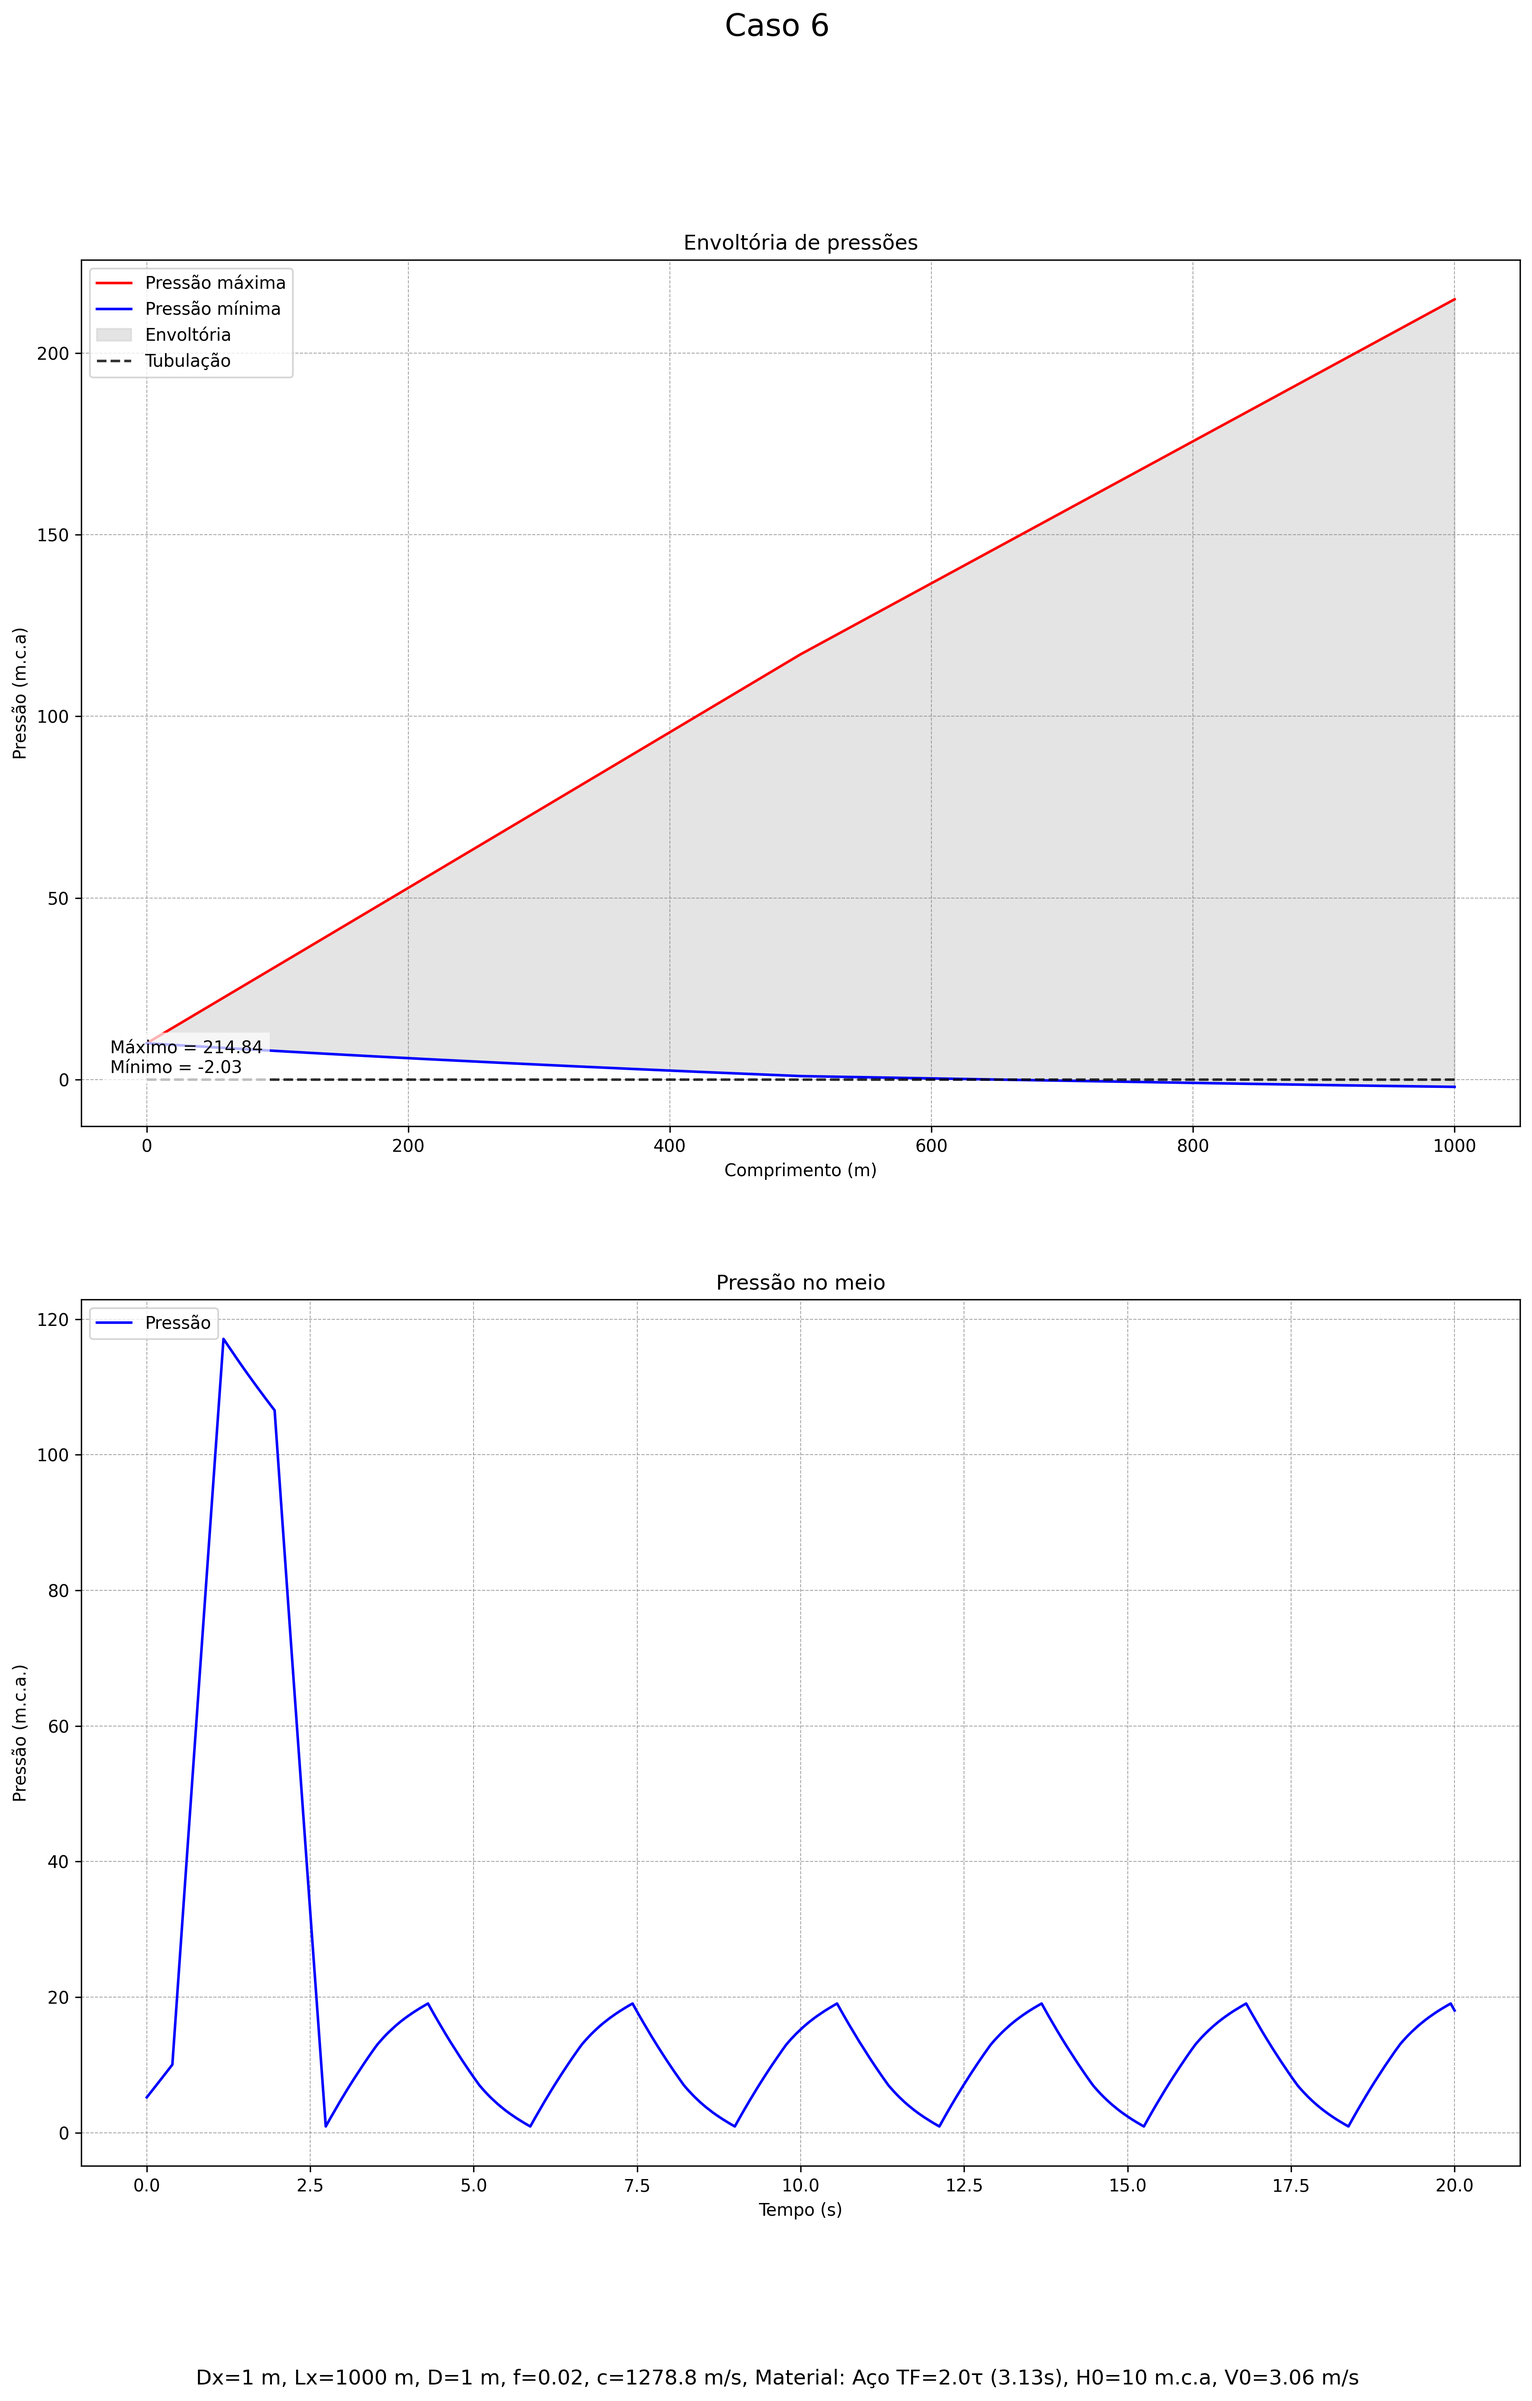
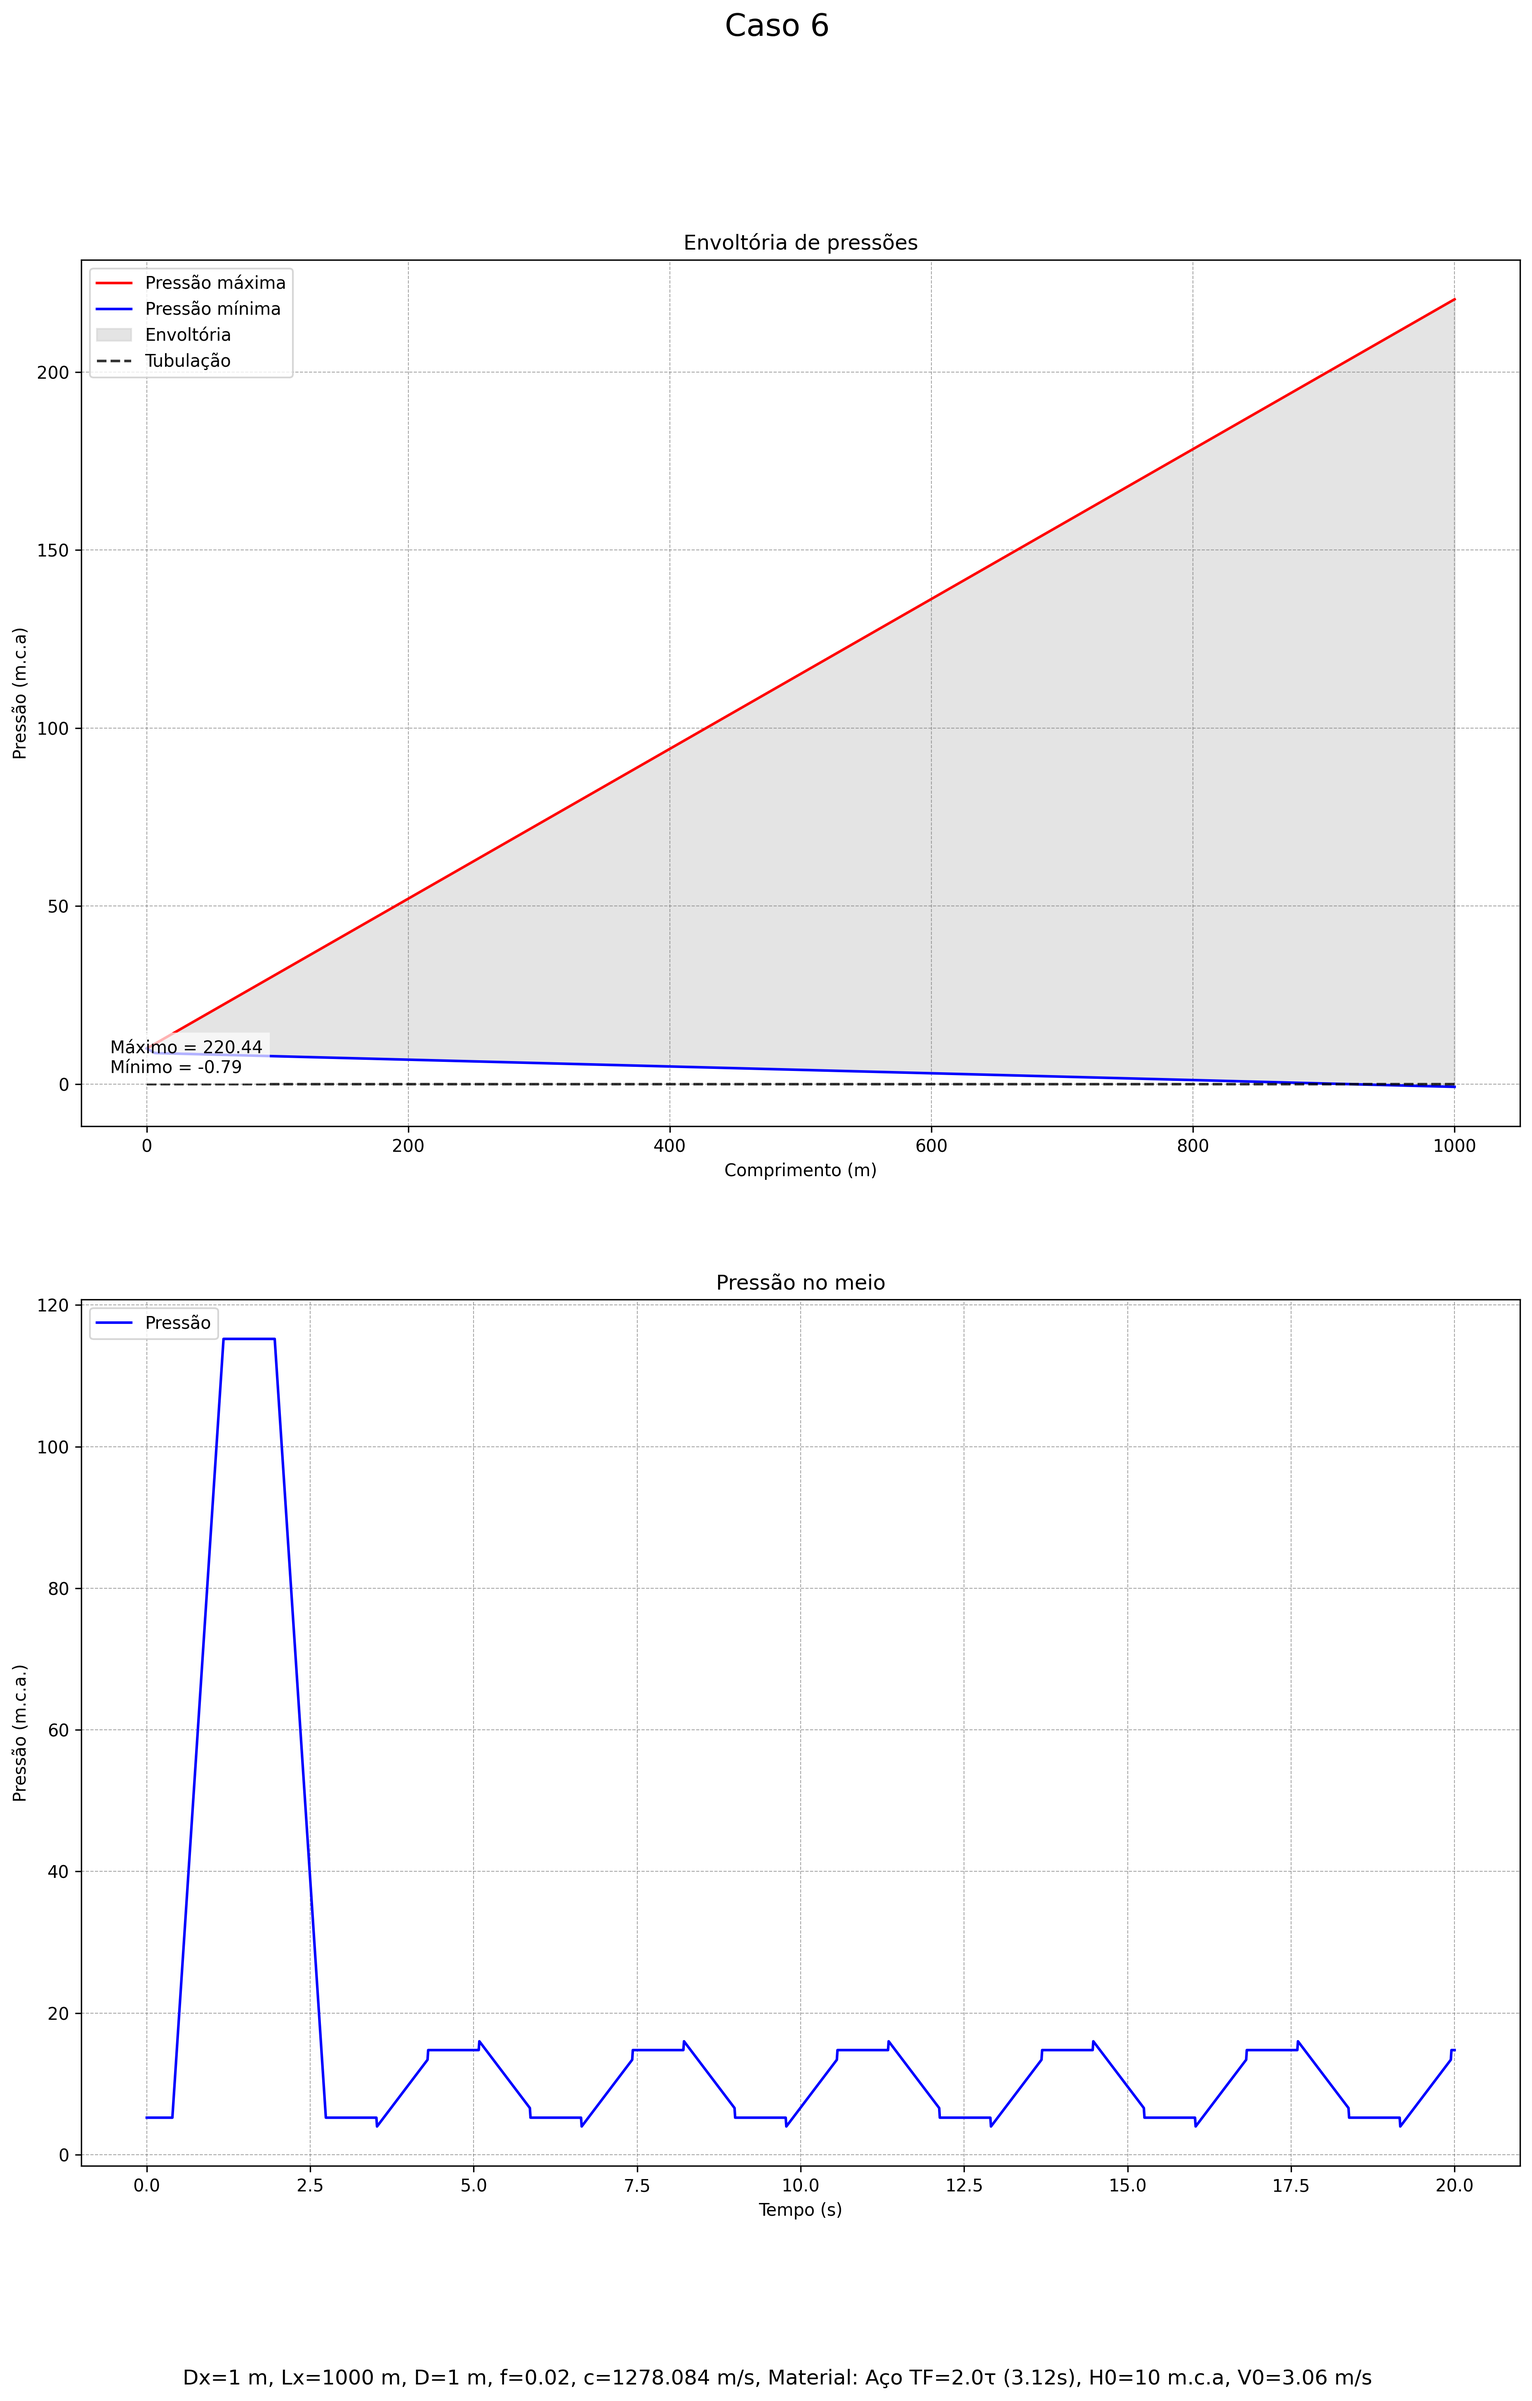
S_04

diff --git a/transiente-hidraulico-moc.py b/transiente-hidraulico-moc.py
@@ -11,15 +11,15 @@ os.makedirs(pasta_saida, exist_ok=True)      # Cria a pasta para salvar gráfico
 animacao = False     # Define se vai ser gerada a animação
 
 # --- CASOS SIMULADOS ---
-casos = [[1, 1, 1278.8, 0.5, 20, 'Aço'],
-         [1, 0.15, 1379.5, 0.5, 20,'Aço'],
-         [1, 0.5, 1342.5, 0.5, 20,'Aço'],
-         [0.1, 1, 1278.8, 0.5, 5,'Aço'],
-         [10, 1, 1278.8, 0.5, 20,'Aço'],
-         [1, 1, 1278.8, 0.1, 20,'Aço'],
-         [1, 1, 1278.8, 2, 20,'Aço'],
-         [1, 1, 620.5, 0.5, 20,'PVC'],
-         [1, 0.5, 622.9, 0.5, 20,'PVC'],
+casos = [[1, 1, 1278.084, 0.5, 20, 'Aço'],
+         [1, 0.15, 1381.964, 0.5, 20,'Aço'],
+         [1, 0.5, 1330.808, 0.5, 20,'Aço'],
+         [0.1, 1, 1278.084, 0.5, 5,'Aço'],
+         [10, 1, 1278.084, 0.5, 20,'Aço'],
+         [1, 1, 1278.084, 0.1, 20,'Aço'],
+         [1, 1, 1278.084, 2, 20,'Aço'],
+         [1, 1, 606.841, 0.5, 20,'PVC'],
+         [1, 0.5, 609.923, 0.5, 20,'PVC'],
 ]
 # Essa é a matriz com os dados de todos os casos simulados, na ordem: Dx, D, Material (c) , Tal, Tempo de simulação
 
